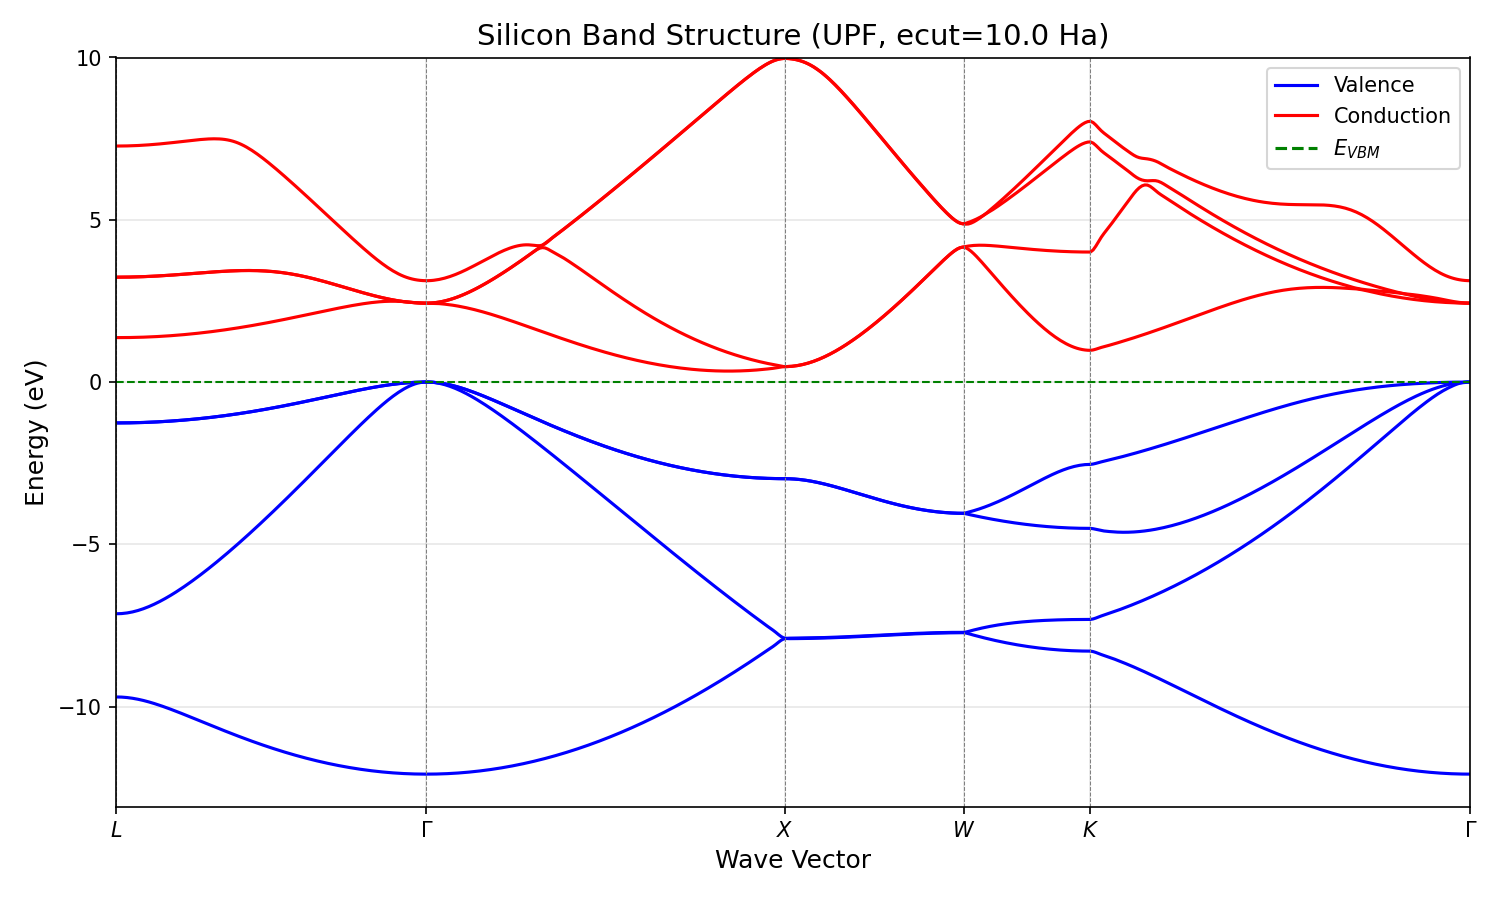
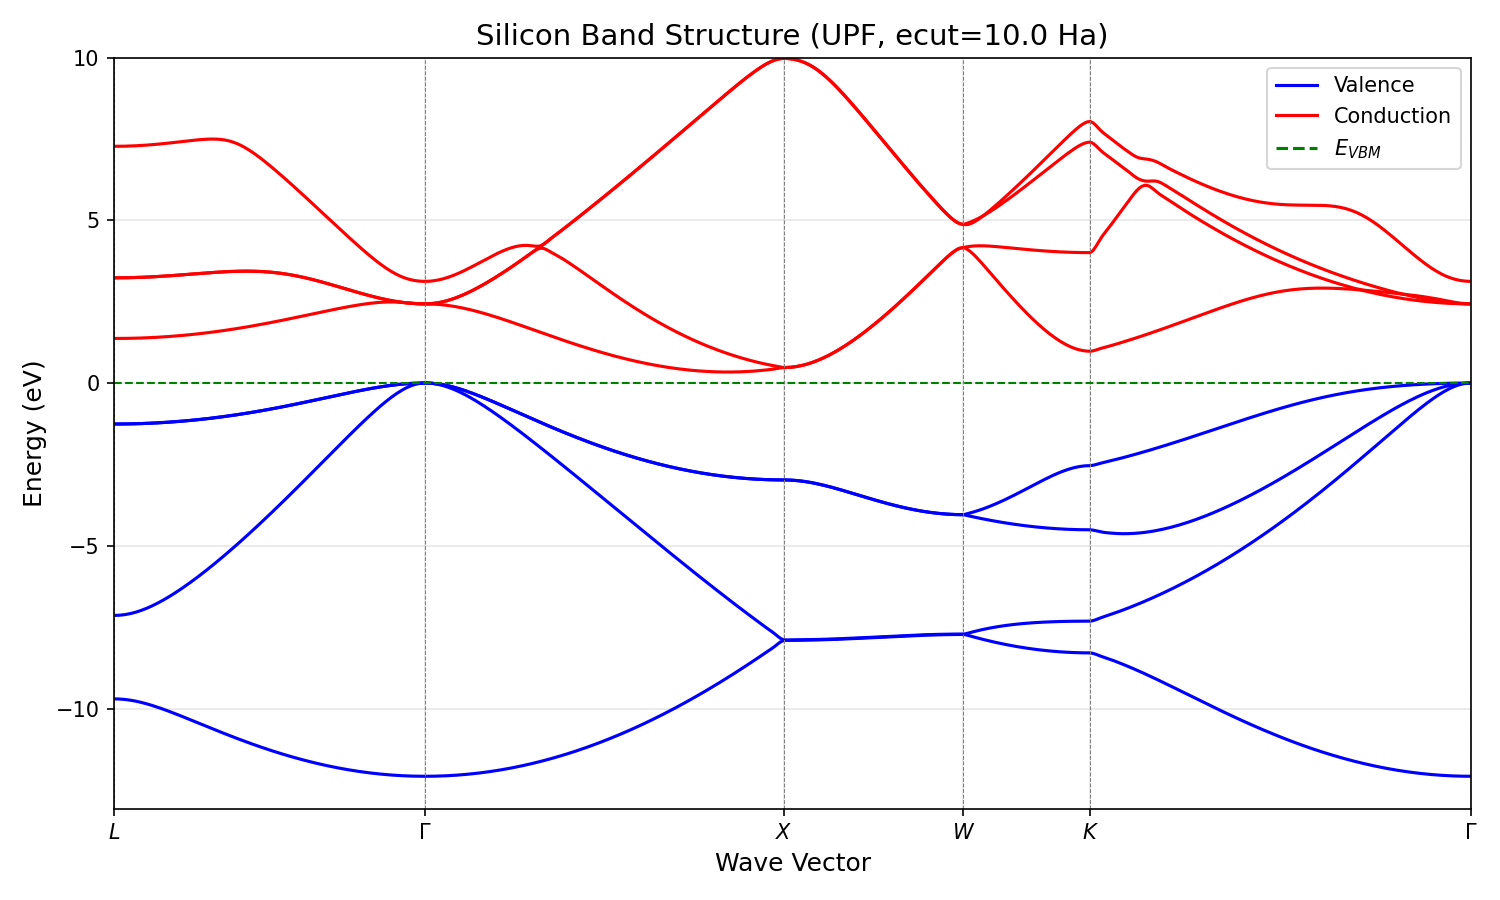
revised comments/docstrings

diff --git a/src/pseudopotential.py b/src/pseudopotential.py
@@ -1,13 +1,11 @@
 """
-Pseudopotential Handling for Plane-Wave DFT.
+Local pseudopotential helpers for plane-wave DFT.
 
-Implements norm-conserving pseudopotentials in the Kleinman-Bylander
-separable form. Supports reading UPF (Unified Pseudopotential Format)
-files for basic calculations.
-
-This is a simplified educational implementation that handles:
-- Local potential: V_loc(r) in real space, transformed to V_loc(G)
-- Non-local potential: Kleinman-Bylander projectors beta_l(r)
+This module focuses on local ionic potentials used in educational and
+toy-system workflows:
+- radial local potential transforms V_loc(r) -> V_loc(G)
+- simple analytic model potentials
+- structure-factor assembly over atoms in the unit cell
 
 References:
     - Kleinman, L. & Bylander, D. M. Phys. Rev. Lett. 48, 1425 (1982)
@@ -15,9 +13,9 @@ References:
 """
 
 import numpy as np
-from scipy.special import spherical_jn, erf
+from scipy.special import erf
 from scipy.integrate import simpson
-from .constants import PI, TWOPI, FOURPI
+from .constants import TWOPI, FOURPI
 
 
 class LocalPotential:
@@ -95,8 +93,8 @@ class SimplePseudopotential:
     """
     Simple pseudopotential for educational purposes.
     
-    Uses analytical forms for V_loc and simple projectors,
-    suitable for testing without reading UPF files.
+    Uses an analytical local potential form suitable for tests and
+    examples that do not rely on UPF files.
     """
     
     def __init__(self, zion, r_loc=1.0, alpha=1.0):
@@ -136,8 +134,8 @@ class AtomicSpecies:
         symbol: Element symbol (e.g., 'Si')
         zion: Ionic charge
         mass: Atomic mass (optional)
-        vloc: Local potential
-        vnl: Non-local potential (optional)
+        psp: Local potential model object
+        has_nonlocal: Whether a non-local model is attached
     """
     
     def __init__(self, symbol, zion, mass=None):

diff --git a/src/silicon_upf.py b/src/silicon_upf.py
@@ -130,7 +130,7 @@ class SiliconUPF:
         self.ewald = Ewald(self.lattice, self.atom_positions, charges, self.gvec)
         print(f"\nEwald energy: {self.ewald.energy:.6f} Ha")
         
-        # Hamiltonian (will add non-local later)
+        # Local (kinetic + local-potential) Hamiltonian part; V_nl is added in wrappers.
         self.hamiltonian = Hamiltonian(self.gvec, self.volume)
         
         # Storage
@@ -239,7 +239,7 @@ class SiliconUPF:
         self.rho_g = self.kscf.rho_g
         self.hamiltonian.set_local_potential(self.v_local_r)
         
-        # Store eigenvalues from Gamma point (or first k-point) for compatibility
+        # Keep first-kpoint eigensystem for plotting/reporting helpers.
         self.evals = self.kscf.kpoints[0].evals
         self.evecs = self.kscf.kpoints[0].evecs
         
@@ -249,7 +249,7 @@ class SiliconUPF:
         return e_total
     
     def _run_scf_gamma(self, max_iter, tol):
-        """Run Gamma-only SCF calculation (original implementation)."""
+        """Run the Gamma-only SCF path."""
         print("\n" + "-" * 70)
         print("SCF Calculation (Gamma-only)")
         print("-" * 70)

diff --git a/src/scf.py b/src/scf.py
@@ -67,11 +67,11 @@ class SCFSolver:
         # Hamiltonian
         self.hamiltonian = Hamiltonian(self.gvec, self.volume)
         
-        # External potential (ion potential placeholder)
+        # External local potential term used by this pedagogical SCF driver.
         if external_potential is not None:
             self.v_ext = external_potential
         else:
-            # Default: harmonic potential for testing
+            # Default to a harmonic confining potential when none is provided.
             self.v_ext = self._create_harmonic_potential()
         
         # Eigensolver
@@ -94,7 +94,7 @@ class SCFSolver:
     
     def _create_harmonic_potential(self, omega=0.1):
         """
-        Create a harmonic confining potential for testing.
+        Create the default harmonic confining potential.
         
         V(r) = 0.5 * omega^2 * |r - r_center|^2
         """

diff --git a/src/hamiltonian.py b/src/hamiltonian.py
@@ -4,7 +4,7 @@ Hamiltonian application: H|psi>.
 The Kohn-Sham Hamiltonian consists of:
 - Kinetic energy: T = -1/2 * nabla^2
 - Local potential: V_loc = V_H + V_xc + V_ps_loc
-- Non-local potential: V_nl (not implemented in this simplified version)
+- Non-local potential: V_nl (applied externally by caller-specific wrappers)
 """
 
 import numpy as np
@@ -35,7 +35,7 @@ class Hamiltonian:
         self.fft_shape = gvec.get_fft_grid_size()
         self.n_fft = np.prod(self.fft_shape)
         
-        # Kinetic energies (for Gamma point)
+        # Default kinetic term for Gamma; callers can overwrite self.kg for k != 0.
         self.kg = 0.5 * np.sum(gvec.cart**2, axis=1)
         
         # Local potential in real space (set later)

diff --git a/src/silicon_example.py b/src/silicon_example.py
@@ -192,10 +192,10 @@ class SiliconSCF:
         from src.mixing import LinearMixer
         self.mixer = LinearMixer(alpha=0.3)
         
-        # Smearing (use Gaussian for metals/semiconductors)
+        # Smearing helper kept for optional workflows; current run uses fixed occupations.
         self.smearing = create_smearing('gaussian', sigma=0.01)
         
-        # Storage (for Gamma-only simplified version)
+        # Storage used by the current single-k SCF path.
         self.evecs = None
         self.evals = None
         self.rho_r = None

diff --git a/src/kpoint_scf.py b/src/kpoint_scf.py
@@ -225,7 +225,7 @@ class KPointSCF:
             
             kdata = KPointData(k_frac, k_cart, weights[ik], self.npw, self.n_bands)
             
-            # Compute |k+G|^2
+            # Compute 0.5*|k+G|^2 kinetic term.
             kdata.kg_squared = np.zeros(self.npw)
             for ig in range(self.npw):
                 kpg = k_cart + self.gvec.cart[ig]

diff --git a/src/kpoints.py b/src/kpoints.py
@@ -71,7 +71,7 @@ class KPoints:
         
         k_points = np.array(k_points)
         
-        # All points have equal weight for now
+        # Equal weights because this helper does not reduce by symmetry.
         nk = len(k_points)
         weights = np.ones(nk) / nk
         

diff --git a/src/pwbasis.py b/src/pwbasis.py
@@ -51,7 +51,7 @@ class PWBasis:
         return self.npw
     
     def get_gindex(self):
-        """Return G-vector indices (identity for now)."""
+        """Return indices in the shared G-vector list."""
         return np.arange(self.npw)
     
     def __repr__(self):

diff --git a/agents.md b/agents.md
@@ -1,0 +1,27 @@
+# agents.md
+
+## Mission
+Build and maintain a pedagogical Python DFT implementation (`pydft`) and a companion book (`pydft-book`) that bridges theory and code. The pydft should be based on Rust code in dftworks
+
+## Scope
+- `pydft/`: executable, readable Python modules for a minimal Kohn-Sham DFT workflow. Based on the Rust code in dftworks
+- `pydft-book/`: chaptered documentation explaining the physics, numerics, and corresponding code.
+
+## Working Rules
+1. Keep modules small and testable.
+2. Prefer explicit math in code over hidden abstractions.
+3. Every new module must include:
+   - docstring with equations/assumptions,
+   - at least one unit test,
+   - one cross-reference in `pydft-book`.
+
+## Testing Rules
+- Run tests module-by-module first, then full suite.
+
+## Documentation Rules
+- Each chapter should answer:
+
+## Quality Bar
+- No silent failures.
+- Clear error messages for invalid inputs.
+- Numerical tolerances documented in tests.
